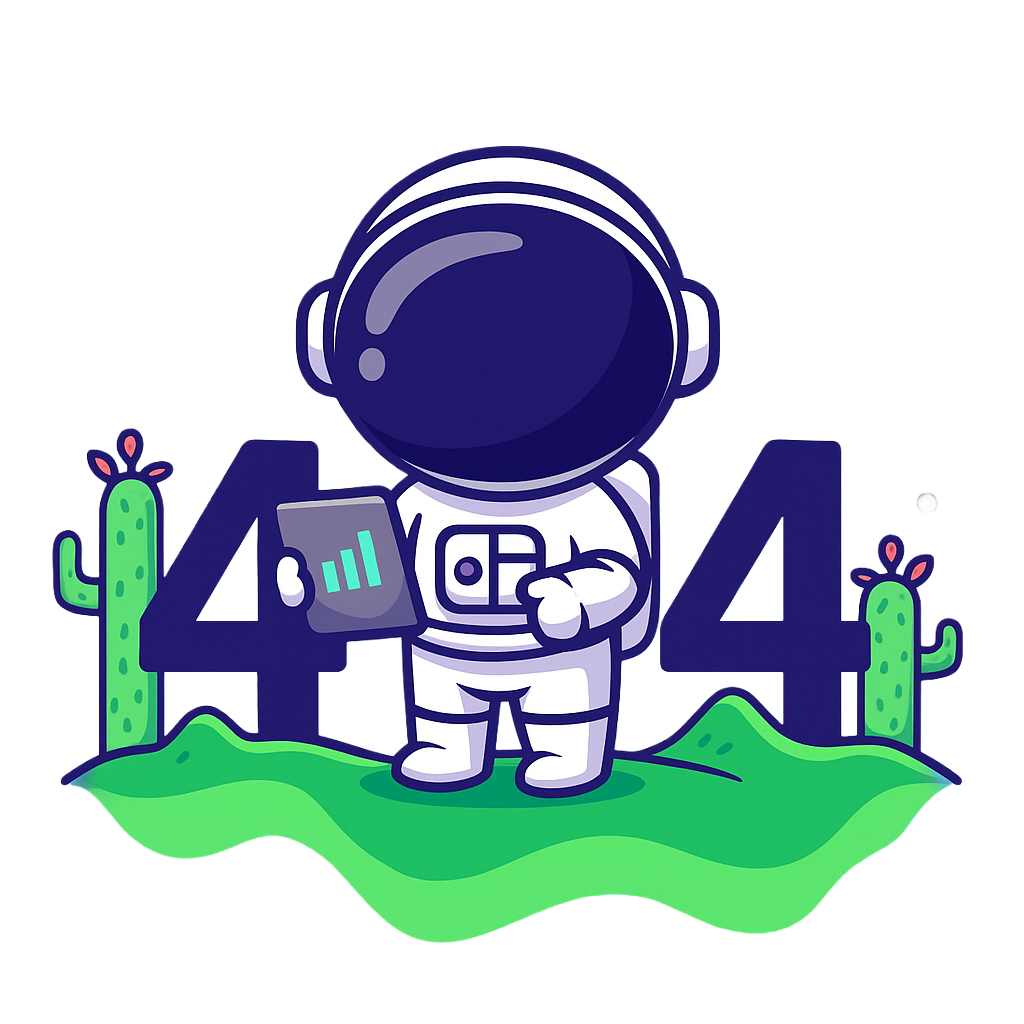
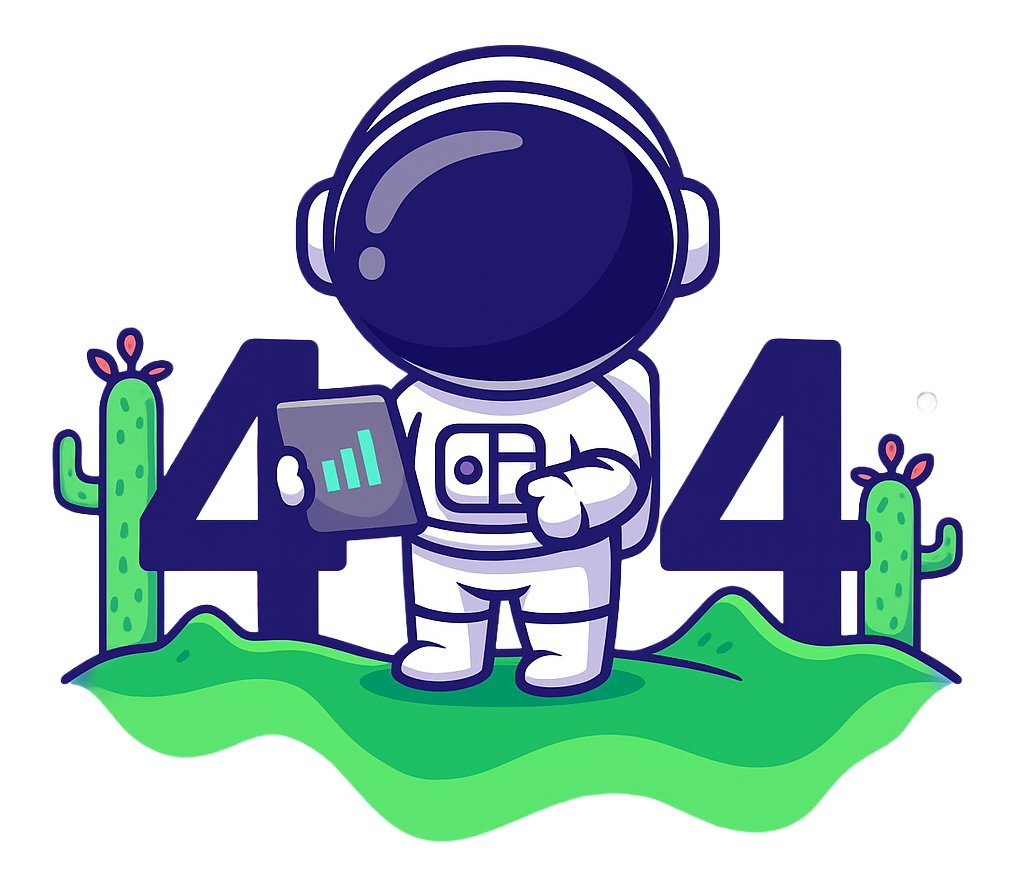
add about JobRunr page

Changed region(s): [[0.0312, 0.0303, 0.9375, 0.9697], [0.875, 0.7879, 0.9062, 0.8182]]

diff --git a/themes/fortify-hugo/layouts/about/list.html b/themes/fortify-hugo/layouts/about/list.html
@@ -28,7 +28,7 @@
                 <div
                   class="relative mt-10 rounded-lg bg-tertiary p-6 pt-10 text-light md:rounded-3xl md:pt-8">
                   <div class="mb-4 flex items-center gap-5">
-                    {{ partial "image" (dict "Src" .avatar "Alt" "CEO Image" "Class" "h-16 w-16 object-cover") }}
+                    {{ partial "image" (dict "Src" .avatar "Alt" "CEO Image" "Class" "h-16 w-16 object-cover rounded-lg") }}
                     <div>
                       <h3 class="h6 text-inherit">{{ .name | markdownify }}</h3>
                       <p class="text-inherit">
@@ -39,8 +39,6 @@
                   <p class="text-lg  text-inherit">
                     {{ .content | markdownify }}
                   </p>
-                  {{ partial "image" (dict "Src" .quote_line "Alt" "quote line" "Class" "pointer-events-none absolute left-1/2 top-6 h-[2px] w-[90%] -translate-x-1/2 object-cover") }}
-                  {{ partial "image" (dict "Src" .quote_bg_shape "Alt" "quote background shape" "Class" "pointer-events-none absolute -bottom-4 -right-4 h-36 w-40 object-contain") }}
                 </div>
               {{ end }}
             </div>
@@ -52,7 +50,7 @@
   <!-- /Banner -->
 
   <!--Brand Logo -->
-  {{ partial "components/brand-logo.html" . }}
+
   <!--/Brand Logo -->
 
   <!-- Core Values -->
@@ -110,6 +108,64 @@
   {{ end }}
   <!-- /Core Values -->
 
+<!-- Green Initiatives  -->
+{{ with .Params.Green_initiatives }}
+<section class="section">
+  <div class="container">
+    <div class="row justify-center">
+      <div
+        class="mx-auto text-center lg:col-10"
+        data-aos="fade-up-sm">
+        <p class="mb-2 text-tertiary font-medium">
+          {{ .subtitle | markdownify }}
+        </p>
+        <h2 class="mb-6">{{ .title | markdownify }}</h2>
+        <p class="text-lg ">{{ .description | markdownify }}</p>
+      </div>
+      
+      <div class="col-12 pt-10">
+        <div class="row justify-center">
+          <div class="lg:col-10">
+            
+            <div class="row g-6 items-center bg-light p-6 rounded-xl md:p-10 mb-16 shadow-lg">
+                
+                <div class="md:col-4 flex flex-col items-center justify-center text-center">
+                    {{/* 1% for the Planet Logo */}}
+                    {{ partial "image" (dict "Src" .logo_src "Alt" "1% for the Planet Member" "Class" "h-24 w-auto mb-4 p-6") }}
+                    <a href="https://directories.onepercentfortheplanet.org/profile/rosoco-bv-jobrunr" target="_blank" rel="noopener" class="text-base font-medium text-purple-600 hover:text-purple-800 transition duration-150">
+                        View Our 1% Profile →
+                    </a>
+                </div>
+
+                <div class="md:col-8">
+                    <h3 class="h4 mb-3 text-gray-900">{{ .commitment_title | markdownify }}</h3>
+                    <p class="text-lg text-gray-700">
+                        {{ .commitment_description | markdownify }}
+                    </p>
+                </div>
+            </div>
+            <div class="space-y-10 mt-12">
+              <h3 class="h4 mb-8 text-gray-900 text-center">{{ .initiative_title | markdownify }}</h3>
+              
+              {{ range .initiatives }}
+                <div class="p-0 pb-4">
+                  <h4 class="text-xl font-bold mb-1 text-tertiary">{{ .title | markdownify }}</h4>
+                  <p class="text-gray-700">{{ .description | markdownify }}</p>
+                  {{ if .link }}
+                    <a href="{{ .link }}" class="text-base font-medium text-purple-600 hover:text-purple-800 transition duration-150 mt-1 inline-block">Learn More →</a>
+                  {{ end }}
+                </div>
+              {{ end }}
+            </div>
+
+          </div>
+        </div>
+      </div>
+    </div>
+  </div>
+</section>
+{{ end }}
+
   <!-- Our Team -->
   {{ with .Params.our_team }}
     <section class="section">
@@ -147,9 +203,6 @@
   {{ end }}
   <!-- Our Team -->
 
-  <!-- Faq -->
-  {{ partial "components/accordion.html" . }}
-  <!-- /Faq -->
 
   <!-- Call to action -->
   {{ partial "call-to-action.html" . }}

diff --git a/themes/fortify-hugo/layouts/404.en.html b/themes/fortify-hugo/layouts/404.en.html
@@ -1,9 +1,9 @@
 {{ define "main" }}
-  <section class="section text-center">
+  <section class="section text-center pt-0">
     <div class="container" data-aos="fade-up-sm">
       <div class="row justify-center">
-        <div class="sm:col-10 md:col-8 lg:col-7 text-center">
-          {{ partial "image" (dict "Src" "/images/404.png" "Alt" "Error Image" "Class" "mx-auto mb-16 block w-[480px]"  "Resize" false ) }}
+        <div class="sm:col-10 md:col-8 lg:col-7 text-center -m-5">
+          {{ partial "image" (dict "Src" "/images/404.png" "Alt" "Error Image" "Class" "mx-auto mb-6 block w-[480px]"  "Resize" false ) }}
           <h1 class="h2 md:h1 mb-4">Oops! Page Not Found</h1>
           <div class="content">
             <p>

diff --git a/content/english/about/_index.md b/content/english/about/_index.md
@@ -1,59 +1,62 @@
 ---
-meta_title: "About"
-title: "About Fortify, Our Commitment to Securing Your Data"
-subtitle: "About Us"
-description: "Your Trusted Partner in Data Protection with Cutting-Edge Solutions for <br> Comprehensive Data Security."
-left_image: "/images/about/about-2.jpg"
-right_image: "/images/about/about-1.jpg"
+meta_title: "About JobRunr | Reliable Java Background Processing"
+title: "JobRunr, Built by Developers to Solve the Java Background Processing Pain"
+subtitle: "Our Story"
+description: "JobRunr is a reliable, open-source job scheduling solution built by Rosoco BV, dedicated to saving developer time and promoting eco-friendly software."
+left_image: "/images/about/team.jpeg" 
+right_image: "/images/key-features/4.webp" 
 quote:
-  avatar: "/images/avatar/person-1.png"
+  avatar: "/images/about/ronald.jpg" 
   quote_line: "/images/about/quote-line.png"
   quote_bg_shape: "/images/about/quote-bg-shape.png"
-  name: "Adam Watson"
-  designation: "Founder and CEO."
+  name: "Ronald Dehuysser"
+  designation: "Founder, Rosoco BV (JobRunr)"
   content: |
-    Welcome to Fortify! Our team is dedicated to safeguarding your data with the most advanced security solutions available. In today's digital age, data security is not just a necessity all share.
+    As a developer, I saw the same broken pattern everywhere: teams wasting weeks building fragile job schedulers with missing features like automatic retries and monitoring. JobRunr was built to solve that problem once and for all.
 
 core_values:
-  title: "Our Values"
-  subtitle: "Core Values"
-  description: "Your Trusted Partner in Data Protection with Cutting-Edge Solutions for <br> Comprehensive Data Security."
+  title: "Reliability. Simplicity. Sustainability."
+  subtitle: "Our Core Values"
+  description: "Our mission is focused on delivering a resilient, frustration-free experience while actively reducing our environmental impact."
 
   list:
-    - icon: "fa-solid fa-spinner" # get outline svg icons from here - https://www.svgrepo.com/vectors/security/outlined/
-      title: "Innovation"
-      description: "Continuously improving and innovating our solutions to stay ahead of cyber threats."
-    - icon: "fa-solid fa-code-branch" # get outline svg icons from here - https://www.svgrepo.com/vectors/security/outlined/
-      title: "Integrity"
-      description: "Upholding the highest standards of honesty and transparency in all our dealings."
-    - icon: "fa-solid fa-wand-sparkles" # get outline svg icons from here - https://www.svgrepo.com/vectors/security/outlined/
-      title: "Customer-Centric"
-      description: "Maintaining the highest levels of honesty and transparency in all our interactions."
+    - icon: "fa-solid fa-code-branch"
+      title: "Built by Developers"
+      description: "We solve the problems we faced ourselves, providing transparent, well-documented, and frustration-free APIs and code."
+    - icon: "fa-solid fa-spinner"
+      title: "Reliability First"
+      description: "We ensure jobs are never lost, even during cluster restarts or failures, allowing your team to focus solely on business logic."
+    - icon: "fa-solid fa-leaf" # Using a leaf icon for eco-friendly
+      title: "Eco-Conscious Software"
+      description: "From solar-powered build servers to Carbon Aware Job Scheduling, we prioritize reducing energy consumption and CO2 footprint."
 
   stats:
-    - label: "Helped over 1000 businesses"
-      value: "1000+"
-    - label: "Customer Satisfaction"
-      value: "99.9%"
-    - label: "Support Availability"
-      value: "24/7"
+    # Based on available data and common metrics for a growing OSS project
+    - label: "Monthly Downloads"
+      value: "300K+" # Based on monthly downloads snippet
+    - label: "Stars on Github"
+      value: "2.8K" 
+    - label: "Trees Planted (Since 2020)"
+      value: "24.5K" 
 
-our_team:
-  title: "Meet Our Team"
-  subtitle: "Our Team"
-  description: "Your Trusted Partner in Data Protection with Cutting-Edge Solutions for <br> Comprehensive Data Security."
+green_initiatives:
+  title: "Building Software That Leaves the World Better"
+  subtitle: "Our Planet Commitment"
+  description: "We believe building great software shouldn't cost the planet. We use our platform and profits to actively reduce our environmental impact."
+  logo_src: "/images/about/1ftp.png"
+  commitment_title: "A 5% Pledge: Beyond 1% for the Planet"
+  commitment_description: "JobRunr commits 5% of our yearly revenue to high-impact environmental non-profits, exceeding the standard five times over. Furthermore, all our build servers run on 100% solar power."
+  initiative_title: "Our Key Green Initiatives and Partners"
+  initiatives:
+    - title: "Carbon Aware Scheduling (In the Code)"
+      description: "Our Carbon Aware feature automatically schedules non-critical jobs to run during low carbon-intensity periods, directly reducing your cloud footprint and energy consumption."
+      link: "/en/blog/2024-03-21-carbon-aware-job-scheduling/"
+    - title: "River Cleanup"
+      description: "We support River Cleanup to tackle plastic pollution at the source, preventing waste from ever reaching the ocean."
+      link: "https://www.river-cleanup.org/en"
+    - title: "Treeapp"
+      description: "We partner with Treeapp for scalable, transparent reforestation, ensuring the right trees are planted in the right places with local community involvement."
+      link: "https://www.thetreeapp.org/"
 
-  list:
-    - name: "Brooklyn Simmons"
-      image: "/images/team/1.jpg"
-      company: "Abstergo Ltd."
-    - name: "Annette Black"
-      image: "/images/team/2.jpg"
-      company: "Biffco Enterprises Ltd."
-    - name: "Darrell Steward"
-      image: "/images/team/3.jpg"
-      company: "Binford Ltd."
-    - name: "Devon Lane"
-      image: "/images/team/4.jpg"
-      company: "Barone LLC."
+
 ---
